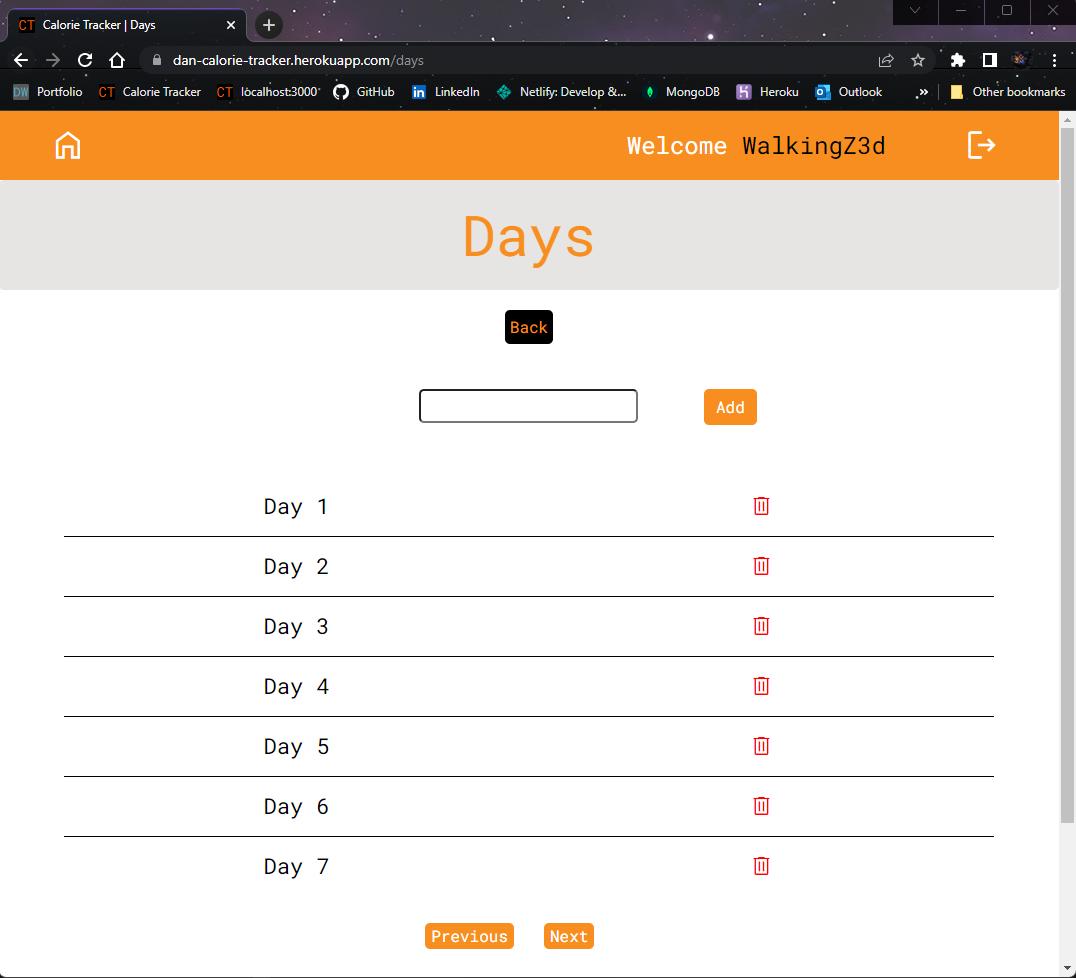
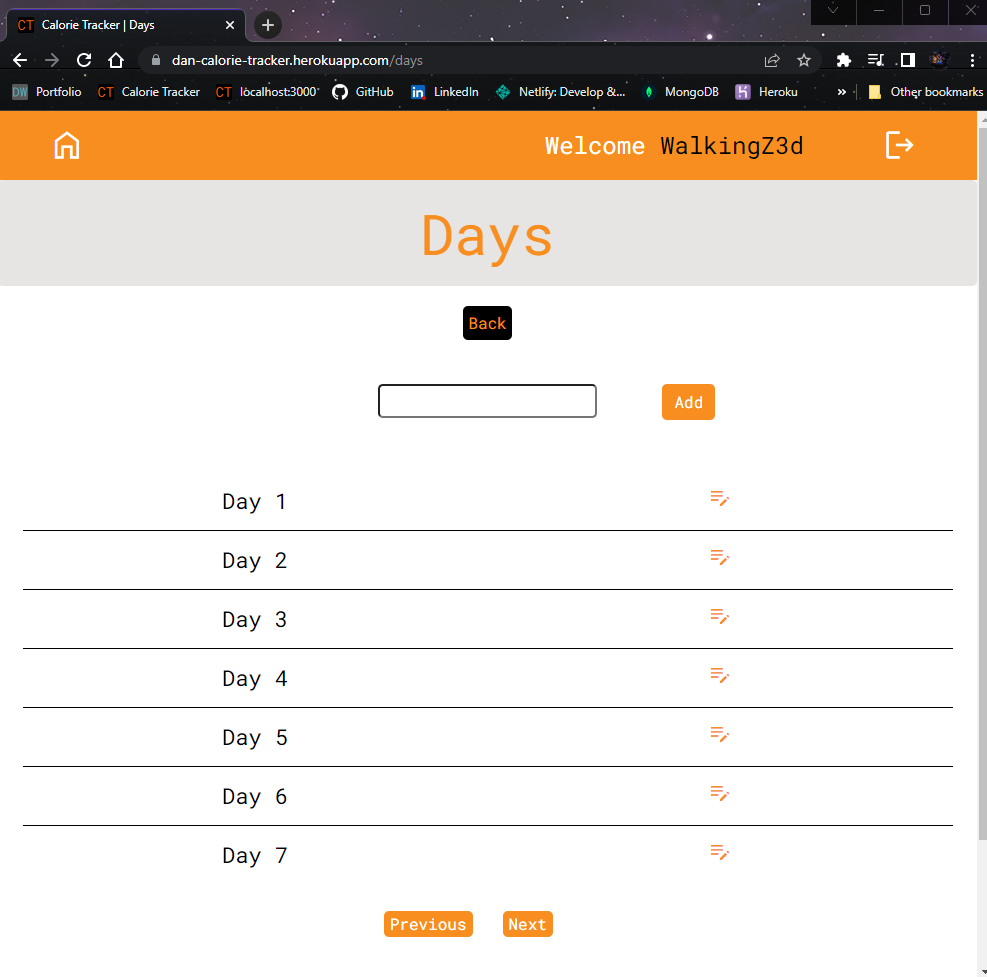
correct days screenshots

diff --git a/src/app/projectsList.ts b/src/app/projectsList.ts
@@ -13,7 +13,7 @@ export const PROJECTS: Project[] = [
         stamp: '../../../assets/images/stamps/personal-pink-clear.png',
         framework: '../../../assets/images/frameworkIcons/node-logo.png',
         screenshot: [['Index Page for the calorie tracker, found at the root "/" endpoint. The user is invited to click on the link to begin to track calories. If they are not logged in, this will redirect them to the login form. If they are, they will be navigated to the "Days" page.', '../../../assets/images/calorieTracker/calorieTracker.png'], ['The login form found at "/login". The user must enter a valid existing username and correct password to log in, failure to do so will result in not logging in. If a user does not have an account they are prompted to register via the signup form.', '../../../assets/images/calorieTracker/screenshot-2.png'],  ['The signup form found at "/signup". Here the user must enter a valid email (for which both server side and client side validation ensures), a unique username and a password at least 5 characters long. If this is done, a new user will be added to the database once password has been encrypted.', '../../../assets/images/calorieTracker/screenshot-3.png'], ['A form displaying the custom error handling to users, invalid password (too short) on signup in this example.', '../../../assets/images/calorieTracker/screenshot-4.png'],['Once logged in, a user is able to see a record of the days they have been logging at "/days". 7 days can be created per page, each of which must be unique. The necessity for user login is the connection between user and stored data. More than one user is likely to have a Day 1 and so each day object is linked by id to each user. This page is populated by a GET request with the user id from the JWT cookie to fetch the days array in the user object.', '../../../assets/images/calorieTracker/screenshot-5.png'], ['Server side error handling when trying to make a day that already exists for that user.', '../../../assets/images/calorieTracker/screenshot-6.png'],
-        ['A new page for each new week. The "Previous" and "Next" buttons allow pagination control. Each day is a link to the entry page for that day.', '../../../assets/images/calorieTracker/screenshot-7.png'],
+        ['A new page for each new week. The "Previous" and "Next" buttons allow pagination control. Each day has a link to the entry page for that day on the edit button.', '../../../assets/images/calorieTracker/screenshot-7.png'],
         ['The dayId (link between user and day) is passed from the day page as a url parameter. This is the entry for a day before any food is added found at the endpoint "/entry/:dayId. To add a food to this day, a user must press the "Add A Food!" button. ', '../../../assets/images/calorieTracker/screenshot-8.png'], ['The form used to add food is found at "/food" and uses the day name in the title to indicate what day you are adding to (taken from the session storage dayId). In order to add food to the right day, the local session is populated with the dayId on the previous page and then sent to the server with the added food object. This ensures the food is added to the correct day.', '../../../assets/images/calorieTracker/screenshot-9.png'], ['Once a food has been added, it will appear in the entry page. The total calorie amount can be seen above the top right of the table, where the calorie numbers are dynamically updated to the total for each new food.', '../../../assets/images/calorieTracker/screenshot-10.png'], ['The entry after a user has clicked the delete icon to remove a food object from this day. The food object is both deleted from the array of foods for this day, and the object is deleted from the database to avoid repeats. The calorie total is also updated automatically.', '../../../assets/images/calorieTracker/screenshot-11.png']],
 
         code: [['The sever instance and routes for the backend of the application. As this app is designed to scale with more functionality, the MVC model has been used to allow for a structured folder and file system which enables far easier addition of new code. The Middleware on line 68, causes all GET routes to check if a user is logged in before sending any resources. As seen below, some routes will "requireAuth", implementing required login state for certain areas of the application. Currently, the required routes are the "indexRoutes" for the home page, "authRoutes" to handle user login and "calorieRoutes" that handle requests from the front end in regards to the calorie tracking. Lines 75-77 show the catch-all used to allow the display of a custom 404 page if the user naviagates away from the avilable routes.', '../../../assets/images/calorieTracker/code-1.png'], ['Middleware for the authentication. When users are logged in, a cookie is saved with the corresponding JSON Web Token (JWT) which this middle ware uses in each function. "requireAuth" checks for a cookie and goes to the next process in the stack with line 24 if it is valid, however if it doesnt not exist or is invalid, the user is redirecetd to the login page. This is applied to every endpoint that needs to be hidden from a non-logged in user - such as the page that displays eaten food. "checkUser" sets the local variable of "user" to the username if found so it can be displayed on the page in the header, if a user is not logged in this function simply passes the process along the stack with the user as null.', '../../../assets/images/calorieTracker/code-2.png'], ['A basic example from the controller, this is the index controller method called on a GET request to "/" and simply returns the index page. The EJS template for frontend views allows variables to be easily passed from the backend to the frontend. In this example, the page title is set as "Home" and so the tab in the browser will read "Calorie Tracker | Home". ', '../../../assets/images/calorieTracker/code-3.png'], ['User authentication for this application requires the following routes, none of which include the "requireAuth" Middleware. The function for each route can be found within the controller for authentication.', '../../../assets/images/calorieTracker/code-4.png'], [ 'Both of the GET requests respond with the approriate form to either login or create a new account. The signup form sends a POST request to "/signup" to add a new user where the controller function first deconstructs the request body to acquire the email, username and password. With this information, the a new "User" is added to the database and the token is created with their JWT, lasting 3 days after which the user will have to login back in. Similarly, the login form sends a POST request to "/login" where the User Schema\'s static method "login" is called to authenticate if that user exists in the database with Bcrypt compare. If successful, the JWT cookie is created as before. In both cases, an unsuccessful login or signup will return a custom error handling object as seen below. To logout the cookie lifetime is set to 1 millisecond and so effectively is deleted.', '../../../assets/images/calorieTracker/code-5.png'], ['When a user tries to login with an account that doesn’t exist or signup with an already taken username, the database queries will fail and return an error. To aid the user, the exact nature of the failure is added to an error object sent back to the frontend after a failed POST request, allowing the frontend to display the error clearly.', '../../../assets/images/calorieTracker/code-6.png'], ['The Schema for creating new user objects within the users document in the database. Each will have a required email, username and password with server side validations such as minimum length and email mongoose email validation. NoSQL was chosen for this project as it allows for easy nesting of objects within the database. This is seen here where each user is assigned a day property with the type of an array of "daySchema" objects.', '../../../assets/images/calorieTracker/code-7.png'], [ 'Mongoose allows for Schemas to have Hooks such as before and after saving a new object to the database. I have added a pre Hook to salt and hash passwords using the bcrypt library, which is an essential feature for security as it prevents user passwords being vunerable to data leaks or unauthorizied access as the .env file contains the JWT secret and is not uploaded to the GitHub thanks to .gitignore.', '../../../assets/images/calorieTracker/code-8.png'], ['The "Day" Schema the template for day objects to be added to each user. As such, each contains a "userId" which associates it with the logged in user. This is not unique as there is a One to Many relationship occuring, where each user may have many days of tracking but each day object can only be associated with a single user. "dayId" is unique so no 2 day objects can be added for each user and is created by appending the "userId" onto the current day number - e.g. for user 777, day 1 would have the "dayId" 1777. Similarly to users, each day can contain foods, which is added as an array of food objects. It is not a required field as when a new day is added, it will not yet contain any food objects. Whilst developing it was initally required, but as no new days could be created without already having food and since you cannot create a food object before a day, no new days would be added. The static method "findByDayId" was created to allow the calorie controller to return a day for a user given the "dayId" with the Mongoose method "findOne". Previously, I was trying to use "findById" but this is a built in Mongoose method that uses the auto generated "_id" and so was causing errors. Since each day has been linked to the user and contains the day number for a unique dayId, the correct day can easily be found and returned.', '../../../assets/images/calorieTracker/code-9.png'], ['For food, the "userDayId" field is populated with the "dayId" with the associated day with "-Number" appended. E.g. if user 777 added an apple to day 1, "userDayId" would be 1777-1. The name of each food added an calorie amount is acquired from an external database when the food is added via POST requests to "/calorie" in the backend to protect my API key located in the .env file.', '../../../assets/images/calorieTracker/code-10.png'], ['The header partial is applied to all pages and contains conditional rendering between lines 33 and 48. If a user exists as seen previously from the authentication Middleware, then display "Welcome username" and the logout button, else the login and signup buttons.', '../../../assets/images/calorieTracker/code-11.png'], ['An example of an EJS template. The partials included in each page are the header and footer components located in a separate folder/file, similar to React or Angular. This particular page is for the login form.', '../../../assets/images/calorieTracker/code-12.png'], ['The routes for the calorie part of the application. The GET requests that return pages require the authentication Middleware to prevent logged out users accessing the resources as everything is linked to users by Id.', '../../../assets/images/calorieTracker/code-13.png'], ['When a user goes to "/days", this code is ran in the browser. A GET request to "/daysList" will return the array of day objects associated with that user. These are then iterated over to populate the table of days seen on the page. Each day is given the href of "/entry/:dayId" so clicking on each day will take you to the entry for said day.', '../../../assets/images/calorieTracker/code-14.png'], ['The GET request to "/daysList" is handled by this method in the calorie controller. The JWT in the cookie from the authentication is used to query the database for the logged in user. This returns the days array to the front end for use as above.','../../../assets/images/calorieTracker/code-15.png'], ['To add a day, a user enters a number into the bar at the top of the page and presses "Add". This form has an event listener as seen here that fires a POST request to "/days" with the number entered as dayName, validated by the client only allowing positive integers to be entered. If this cannot be added to the database (due to a repeated day), the custom errors object is resolved and used to display to the user. ', '../../../assets/images/calorieTracker/code-16.png'], ['On the server side, the cookie is once again used to acquire the userId. A new object is then added to the database with a userId equal to the userId of the user logged in, and a dayId equal to the userId with the day number on appened to the beginning. The dayName is equal to "day" + number. Once sucessfully created, a new Promise is used push the new day object to the array of days on the user object - an example of where nested documents in NoSQL is helpful. These processes are surrounded by a try catch to ensure the errors can be handled if occuring.', '../../../assets/images/calorieTracker/code-17.png'], ['Since the URL parameters are added on the days page for navigation to this page, the entry page can be served with an EJS variable for the entry of foods for each day. Making a GET request to "/entry/:id" will fire this function in the controller. The URL parameters are deconstructed and passed into the static method of "findByDayId" on the Day Schema.', '../../../assets/images/calorieTracker/code-18.png'], ['EJS allows for very simple rendering when given expected input. The entry page uses the "foodList" property rendered by the GET request for this page, which contains the foods array of the day clicked on. The array is then iterated through to populate the table and calculate the total calories. The user can add more food with the "Add A Food!" button or delete a food from this day with the red delete icon.', '../../../assets/images/calorieTracker/code-20.png'], [' The user enters the food name and amount in the form (which is validated client side by only allowing text in the food name input and numbers in the grams input) and presses add, which fires this event listener. The first request is a POST to "/next" to calculate the id of the food to be added. The second request is to a POST to "/calorie". If successful, this will add a new food object to the database and append it to the food array for the day the user was adding to.', '../../../assets/images/calorieTracker/code-21.png'], ['This function in the calorie controller is used to calculate the id of the new food. To ensure a unique Id, the "userDayId" field is populated with the "dayID" of the day being added to + "-" and the counter of added foods so far. E.g. for user 777, on day 1, the first food added will have the id of 1777-1, the second will be "1777-2, day 2 will be "2777-1" and so on. This method will work out the highest -number and return one higher. So in the event a food of -3 is deleted but -4 is still there, the next food will still be -5.', '../../../assets/images/calorieTracker/code-22.png'], ['To acquire the data for the calorie amount, a 3rd party API is called (from the backend to hide my API key) with the query of food name and amount. Once the calorie number has been acquired, the correct day must be to get the correct Mongoose "_id" to query. This "_id_" along with the dayId + "-" + "id of food", food name and calorie amount are used to create a new Food object. If successful, a Promise (as this may take some time) is then used to find the day and push the new Food object to the array of foods for the correct day. The id system used in this application allows for each day and food to easily be identified and queried.', '../../../assets/images/calorieTracker/code-23.png'], ['Finally, if a user wants to delete a food from a paticular day, they can click on the red delete icon to do so from the entry page at "/entry/:id". Clicking this icon fires a DELETE requests to "/days" passing the dayId from the URL parameters and the id on the food (the "-num").', '../../../assets/images/calorieTracker/code-24.png'], ['The delete function in the calorie controller for this endpoint does 2 things. Firstly, the "-id" property ("userDayId") is used to delete the food from the database. Secondly, the day this food is associated with is found by the static "findByDayId" as before to get the "_id". A Promise is then again used to remove the food from the foods array for that day.', '../../../assets/images/calorieTracker/code-25.png']],
